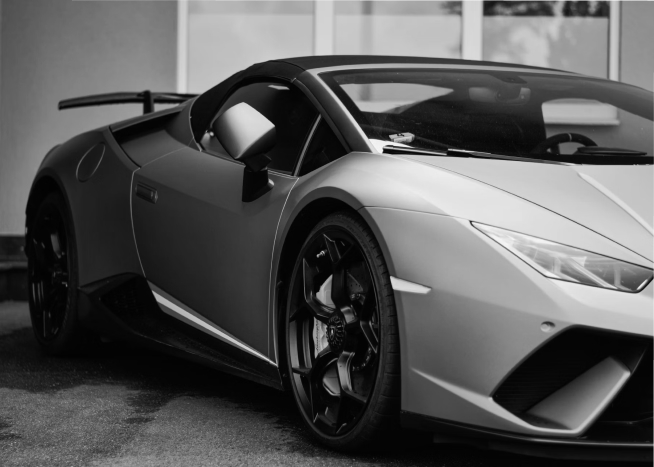
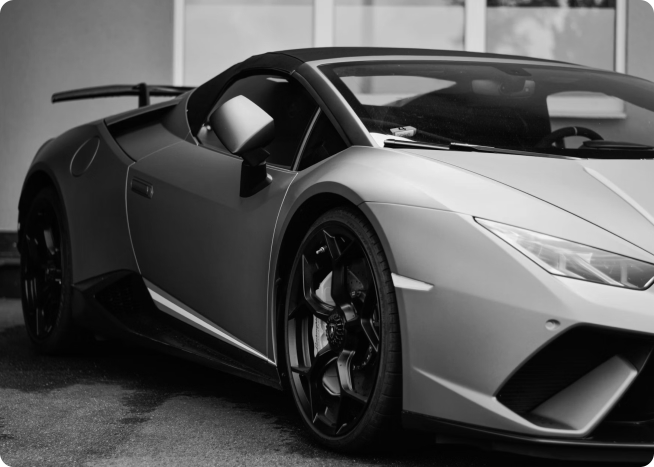
콧핏이미지 배경 및 그림자 적용

diff --git a/assets/css/ui.style.css b/assets/css/ui.style.css
@@ -173,10 +173,10 @@ body, html {height:100%; overflow: hidden; background-color: #000;}
 .quiz-wrapper .page-progress {width: 638px; height: 12px; margin-left: auto; margin-right: auto; background-color: #615481; border-radius: 20px;}
 .quiz-wrapper .page-progress .quiz-value {display: block; height: inherit; width: 0%; border-radius: inherit; background-image: linear-gradient(to right, #B488E0, #F1D9FF);}
 .quiz-selection {display: grid; grid-template-columns: 1fr 1fr; gap: 72px;}
-.quiz-selection .btn {display: flex; flex-direction: column; overflow: visible; height: 642px; padding: 0 55px 48px 55px; border-radius: 22px; background-color: #fff; transition: all 0.3s ease;}
+.quiz-selection .btn {display: flex; flex-direction: column; overflow: visible; height: 640px; padding: 0 55px 48px 55px; border-radius: 22px; background-color: #fff; transition: all 0.3s ease;}
 .quiz-selection .btn .tit {position: relative; z-index: 2; display: flex; flex:none; align-items: center; justify-content: center; width: 100%; height: 128px; background: linear-gradient(288.82deg, #100A20 -4.76%, #824DE0 120.86%); -webkit-background-clip: text; font-size: 48px; color: transparent; font-weight: 400; letter-spacing: -0.05em;}
 .quiz-selection .btn .img {position: relative; z-index: 2; flex: 1 1 auto; display: block; width: 100%; height: 100%; overflow: hidden; border-radius: 14px;}
-.quiz-selection .btn .img img {flex: none;}
+.quiz-selection .btn .img img {flex: none; margin-top: -2px;}
 .quiz-selection .btn::before {content: ''; position: absolute; left: 0; top: 0; z-index: 2; display: block; width: 100%; height: 100%; background-color:#FD312E; opacity: 0; border-radius: 22px;}
 .quiz-selection .btn::after {content: ''; position: absolute; left: -3px; top: -3px; z-index: 1; display: block; width: calc(100% + 6px); height: calc(100% + 6px); border: 3px solid #FD312E; border-radius: 25px; background: linear-gradient(180deg, rgba(253, 49, 46, 0) 13.4%, rgba(253, 49, 46, 0.8) 110.98%), rgba(255, 255, 255, 0.9); opacity: 0;}
 .quiz-selection .btn .img::before {content: ''; position: absolute; left: 0; top: 0; z-index: 2; display: block; width: 100%; height: 100%; background-image: linear-gradient(242deg, var(--color-liner-red) 8.13%, var(--color-liner-orange) 89.99%); opacity: 0; box-shadow: 0px 4px 4px rgba(0, 0, 0, 0.25); mix-blend-mode: color;}
@@ -339,17 +339,24 @@ body, html {height:100%; overflow: hidden; background-color: #000;}
 
 /* 콕핏이미지 */
 .cockpit-wrapper {width: 1920px; height: 1080px;}
-.cockpit-wrapper::after {content:''; display: block; width: 100%; height: 100%; background: url('../images/cockpit_bg.jpg'); filter: grayscale(0%); animation: grayScale 4s ease forwards;}
-.cockpit-wrapper .cockpit-frame {position: absolute; left: 366px; top: 198px; z-index: 500; display: block; width: 1190px; height: 685px; background: url('../images/cockpit_frame.png') no-repeat center center; transform: translate(526px, 0px) scale(0.52);}
-.cockpit-wrapper .cockpit-frame .page-wrapper {position: absolute; left: 15px; top: 15px; transform: scale(0.604); border-radius: 10px; overflow: hidden; transform-origin: 0 0;}
-.cockpit-wrapper .cockpit-frame {animation: cockpicZoomin 4s ease forwards;}
+.cockpit-wrapper::before {content:''; display: block; width: 100%; height: 100%; background: url('../images/cockpit_bg.jpg'); filter: grayscale(0%); animation: grayScale 4s 0.75s ease forwards;}
+.cockpit-wrapper::after {content:''; position: absolute; left: 0; top: 0; display: block; width: 100%; height: 100%; background: url('../images/cockpit_bg_shadow.png');}
+.cockpit-wrapper .cockpit-frame {position: absolute; left: 360px; top: 192px; z-index: 500; display: block; width: 1188px; height: 683px; border: 18px solid #000; border-radius: 20px; background: url('../images/cockpit_frame.png') no-repeat center center; transform: translate(526px, 0px) scale(0.5);}
+.cockpit-wrapper .cockpit-frame::after {content:''; position: absolute; left: 0; bottom: 0; display:block; width: 100%; height: 50px; z-index: 100; background-image: linear-gradient(to bottom, rgba(0, 0, 0, 0) 0%, rgba(0, 0, 0, 0.05) 17%, rgba(0, 0, 0, 2) 53%); animation: cockpitShadow 4s 0.75s ease forwards;  pointer-events: none;}
+.cockpit-wrapper .cockpit-frame .page-wrapper {position: absolute; left: 0px; top: -1px; transform: scale(0.6); border-radius: 10px; overflow: hidden; transform-origin: 0 0;}
+.cockpit-wrapper .cockpit-frame {animation: cockpicZoomin 4s 0.75s ease forwards;}
 @keyframes grayScale {
 	0% {filter: grayscale(0%)}
 	100% {filter: grayscale(100%)}
 }
 @keyframes cockpicZoomin {
-	0% {transform: translate(526px, 0px) scale(0.52)}
+	0% {transform: translate(526px, 0px) scale(0.50)}
 	100% {transform: translate(0, 0) scale(1);}
+}
+@keyframes cockpitShadow {
+	0% {bottom: 0px; height:50px;}
+	100% {bottom: -195px; height:350px;}
+
 }
 
 .cockpit-wrapper .btn-mylbs {position: absolute; right: 62px; bottom: 64px; z-index: 1100;}
